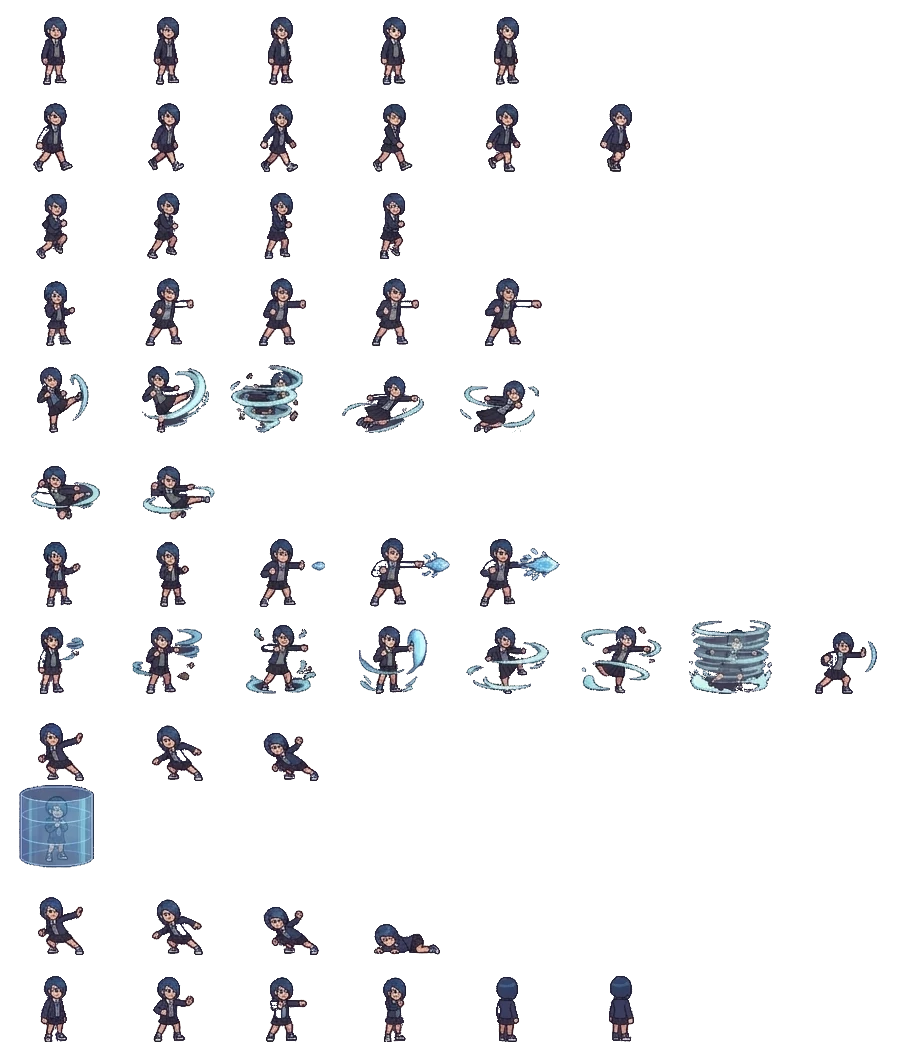
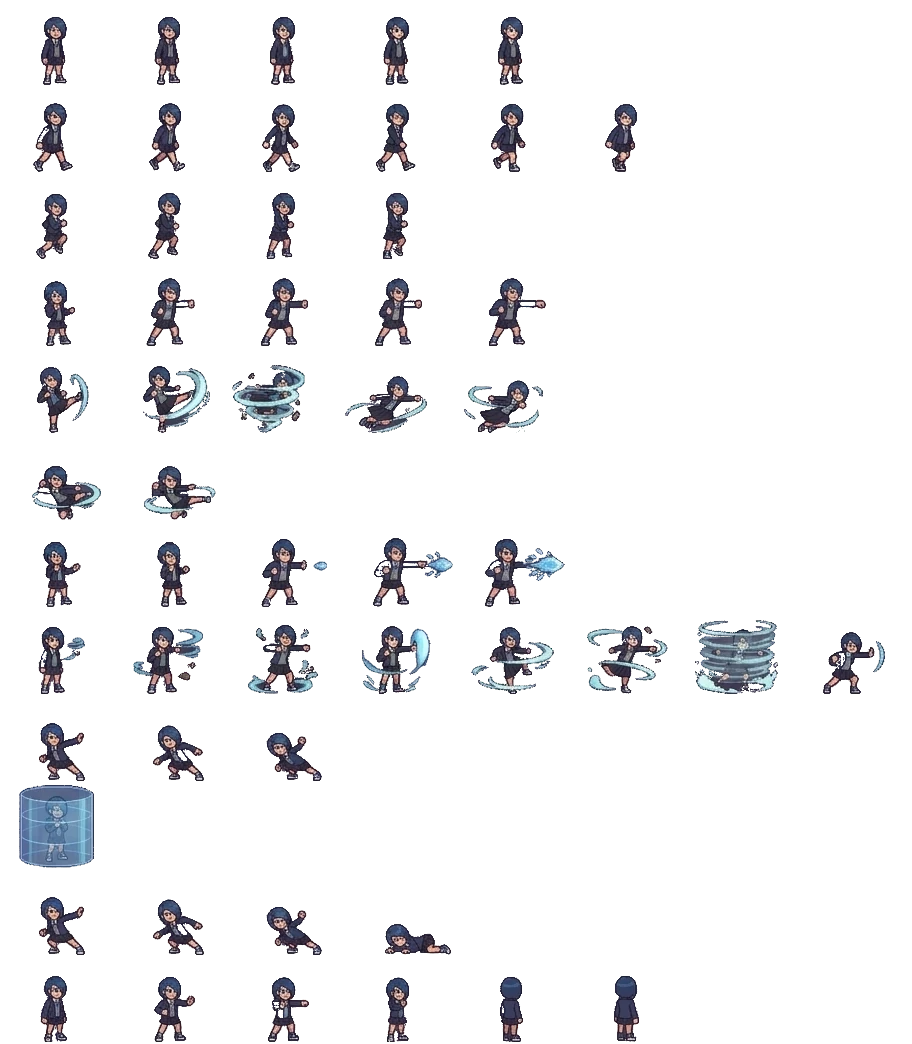
격투 그림을 AI 이미지로 넣는 길 정리: 시트·배경 가져오기, 발판 가이드, 프롬프트 문서
- import-fight-sheet.py: 표준 12줄 배치 자동 인식, 몸 키로 크기 자동 계산, --wm/--split
- import-fight-bg.py: 배경 그림을 16:9 1920×1080 webp로
- fight-map-guides.py: AI 배경용 발판 배치 가이드 그림
- docs/fight-art-guide.md: 캐릭터 시트·배경 프롬프트와 넣는 방법
- 옥상 2P 시작 자리를 물탱크 밖으로

diff --git a/src/lib/fight/maps.ts b/src/lib/fight/maps.ts
@@ -75,7 +75,7 @@ export const MAPS: MapDef[] = [
       { x0: 240, x1: 420, y: 420, kind: "sign" },
       { x0: 732, x1: 912, y: 430, kind: "sign" },
     ],
-    spawn: [320, 832],
+    spawn: [320, 760],
     respawn: [200, 576, 950],
   },
   {

diff --git a/scripts/import-fight-sheet.py b/scripts/import-fight-sheet.py
@@ -3,7 +3,12 @@
 AI로 뽑은 격투 스프라이트 시트(단색 배경, 줄마다 동작 여러 개 섞여 있는 그림)를
 게임 시트 형식(public/fight/<id>.webp + .json)으로 바꿔 준다.
 
-  python3 scripts/import-fight-sheet.py <원본.png> <캐릭터id>
+  python3 scripts/import-fight-sheet.py <원본.png> <캐릭터id> [--wm x0,y0,x1,y1] [--split y]
+
+  - 캐릭터id 가 PRESETS 에 있으면 그 배치(줄·프레임 골라 쓰기)를 씀 (예: mio — 예시 시트)
+  - 없으면 표준 배치: 12줄 = STD_ORDER 순서 동작 한 줄씩, 줄 안의 프레임 전부
+    (docs/fight-art-guide.md 의 프롬프트로 뽑은 시트)
+  - 몸 키를 재서 게임 키(BODY_H px)에 맞게 scale 자동 계산
 
 하는 일
   1. 배경색(가장 흔한 색) 키 아웃 → 부드러운 알파, 테두리 배경색 번짐 제거
@@ -22,15 +27,13 @@ import numpy as np
 from PIL import Image
 from scipy import ndimage
 
-# 원본 기준 좌표(px). 오른쪽 아래 별 워터마크.
-WATERMARKS = [(840, 930, 905, 1000)]
-# 붙어서 한 줄로 잡히는 곳을 이 y에서 자름
-SPLITS = [638]
 # 이 거리 이하로 떨어진 조각은 같은 프레임으로 합침 (물방울 등)
 MERGE_GAP = 10
+# 게임 속 몸 키(px) — 피격 박스 높이와 맞춤
+BODY_H = 62
 
-# 동작 이름 → [(원본 줄, 프레임 번호), ...]  (0부터, 왼쪽→오른쪽)
-ANIMS = {
+# 예시 시트(미오) 배치: 동작 이름 → [(원본 줄, 프레임 번호), ...]  (0부터, 왼쪽→오른쪽)
+MIO_ANIMS = {
     "idle": dict(src=[(0, i) for i in range(5)], fps=6, loop=True),
     "walk": dict(src=[(0, 5), (0, 6), (0, 7), (1, 5), (1, 6), (1, 7)], fps=10, loop=True),
     "jump": dict(src=[(2, 0), (2, 1), (2, 2), (2, 3)], fps=8, loop=False),
@@ -44,13 +47,35 @@ ANIMS = {
     "down": dict(src=[(10, i) for i in range(2, 6)], fps=12, loop=False),
     "win": dict(src=[(11, i) for i in range(6)], fps=5, loop=True),
 }
-MOVES = {
+MIO_MOVES = {
     "L": dict(anim="light", **{"from": 0}, impact=2, to=4),
     "H": dict(anim="heavy", **{"from": 0}, impact=2, to=4),
     "J": dict(anim="air", **{"from": 0}, impact=1, to=1),
     "S": dict(anim="cast", **{"from": 0}, impact=3, to=4),
     "X": dict(anim="super", **{"from": 0}, impact=6, to=7),
 }
+PRESETS = {
+    # Gemini 워터마크(별) 오른쪽 아래, 오브 때문에 붙은 7·8줄을 y638에서 자름
+    "mio": dict(wm=[(840, 930, 905, 1000)], splits=[638], anims=MIO_ANIMS, moves=MIO_MOVES),
+}
+
+# 표준 배치: 줄 순서 = 동작 (fps, 반복)
+STD_ORDER = [
+    ("idle", 6, True),
+    ("walk", 10, True),
+    ("jump", 8, False),
+    ("light", 18, False),
+    ("heavy", 14, False),
+    ("air", 12, False),
+    ("cast", 12, False),
+    ("super", 12, False),
+    ("hit", 12, False),
+    ("block", 1, False),
+    ("down", 12, False),
+    ("win", 6, True),
+]
+# 기술 → 동작, 맞는 순간은 그 줄 프레임 수의 이 비율 지점
+STD_MOVES = {"L": ("light", 0.5), "H": ("heavy", 0.5), "J": ("air", 0.5), "S": ("cast", 0.6), "X": ("super", 0.6)}
 STATES = {
     "idle": {"anim": "idle"},
     "walk": {"anim": "walk"},
@@ -61,8 +86,6 @@ STATES = {
     "ko": {"anim": "down"},
     "win": {"anim": "win"},
 }
-# 원본 몸 키(px) ÷ 게임 몸 키(px)
-SCALE = 1.12
 
 
 def bands(a, gap):
@@ -80,7 +103,7 @@ def bands(a, gap):
     return out
 
 
-def main(src: str, cid: str):
+def main(src: str, cid: str, wm: list, splits: list):
     rgba = Image.open(src).convert("RGB")
     im = np.asarray(rgba).astype(np.float32)
     H, W, _ = im.shape
@@ -104,7 +127,11 @@ def main(src: str, cid: str):
     alpha = np.where(hard, 0.0, 1.0)
     rim = hard & ndimage.binary_dilation(~hard)
     alpha[rim] = np.clip((dist[rim] - 10) / 30, 0, 0.8)
-    for x0, y0, x1, y1 in WATERMARKS:
+    preset = PRESETS.get(cid)
+    if preset:
+        wm = wm or preset["wm"]
+        splits = splits or preset["splits"]
+    for x0, y0, x1, y1 in wm:
         alpha[y0:y1, x0:x1] = 0
     a3 = np.maximum(alpha, 1e-3)[..., None]
     rgb = np.clip((im - (1 - a3) * bg) / a3, 0, 255)
@@ -116,7 +143,7 @@ def main(src: str, cid: str):
     body = mask & ~fx
 
     rows = bands(mask.any(1), 3)
-    for sy in SPLITS:
+    for sy in splits:
         for i, (a, z) in enumerate(rows):
             if a < sy < z:
                 rows[i:i + 1] = [[a, sy - 1], [sy, z]]
@@ -140,6 +167,20 @@ def main(src: str, cid: str):
         frames.append(fr)
         print(f"줄 {len(frames) - 1}: y{a}-{z} 프레임 {len(fr)}")
 
+    if preset:
+        anims, moves = preset["anims"], preset["moves"]
+    else:
+        if len(frames) != len(STD_ORDER):
+            sys.exit(f"줄이 {len(frames)}개 — 표준 배치는 {len(STD_ORDER)}줄이어야 함 (--split 로 붙은 줄을 자르거나 PRESETS 추가)")
+        anims = {
+            n: dict(src=[(i, k) for k in range(len(frames[i]))], fps=fps, loop=loop)
+            for i, (n, fps, loop) in enumerate(STD_ORDER)
+        }
+        moves = {}
+        for mid, (an, ratio) in STD_MOVES.items():
+            n = len(anims[an]["src"])
+            moves[mid] = {"anim": an, "from": 0, "impact": min(n - 1, int(n * ratio)), "to": n - 1}
+
     def anchor(box):
         x0, y0, x1, y1 = box
         bm = body[y0:y1 + 1, x0:x1 + 1]
@@ -147,17 +188,19 @@ def main(src: str, cid: str):
         if len(ys) == 0:
             ys, xs = np.where(mask[y0:y1 + 1, x0:x1 + 1])
         top = ys.min()
-        head = xs[ys < top + 18]
         foot = ys.max()
-        return x0 + head.mean(), y0 + foot
+        head = xs[ys < top + max(6, (foot - top) * 0.25)]
+        return x0 + head.mean(), y0 + foot, foot - top
 
     picks = {}
+    heights = [anchor(frames[ri][fi])[2] for ri, fi in anims["idle"]["src"]]
+    scale = round(float(np.median(heights)) / BODY_H, 3)
     left = right = up = down = 0
-    for name, ad in ANIMS.items():
+    for name, ad in anims.items():
         lst = []
         for ri, fi in ad["src"]:
             box = frames[ri][fi]
-            ax, ay = anchor(box)
+            ax, ay, _ = anchor(box)
             left = max(left, ax - box[0])
             right = max(right, box[2] + 1 - ax)
             up = max(up, ay - box[1])
@@ -168,7 +211,7 @@ def main(src: str, cid: str):
     L, R, U, D = (int(np.ceil(v)) + pad for v in (left, right, up, down))
     cw, ch = L + R, U + D
     ncol = max(len(v) for v in picks.values())
-    out = np.zeros((ch * len(ANIMS), cw * ncol, 4), np.uint8)
+    out = np.zeros((ch * len(anims), cw * ncol, 4), np.uint8)
     src_rgba = np.dstack([rgb, alpha * 255]).astype(np.uint8)
     for row, (name, lst) in enumerate(picks.items()):
         for col, (box, ax, ay) in enumerate(lst):
@@ -187,14 +230,14 @@ def main(src: str, cid: str):
         "image": f"/fight/{cid}.webp",
         "cell": [cw, ch],
         "anchor": [L, U],
-        "scale": SCALE,
+        "scale": scale,
         "pixel": True,
         "facing": "right",
         "anims": {
             n: {"row": i, "frames": len(picks[n]), "fps": ad["fps"], "loop": ad["loop"]}
-            for i, (n, ad) in enumerate(ANIMS.items())
+            for i, (n, ad) in enumerate(anims.items())
         },
-        "moves": MOVES,
+        "moves": moves,
         "states": STATES,
     }
     (outdir / f"{cid}.json").write_text(json.dumps(meta, ensure_ascii=False, indent=2) + "\n")
@@ -202,4 +245,17 @@ def main(src: str, cid: str):
 
 
 if __name__ == "__main__":
-    main(sys.argv[1], sys.argv[2])
+    args = sys.argv[1:]
+    wm, splits, pos = [], [], []
+    i = 0
+    while i < len(args):
+        if args[i] == "--wm":
+            wm.append(tuple(int(v) for v in args[i + 1].split(",")))
+            i += 2
+        elif args[i] == "--split":
+            splits.append(int(args[i + 1]))
+            i += 2
+        else:
+            pos.append(args[i])
+            i += 1
+    main(pos[0], pos[1], wm, splits)

diff --git a/scripts/fight-map-guides.py b/scripts/fight-map-guides.py
@@ -1,0 +1,40 @@
+#!/usr/bin/env python3
+"""
+맵 발판 배치 가이드 그림 (AI 배경 그릴 때 참고 이미지로 넣음) → <출력폴더>/<맵id>.png
+
+  npx tsx -e 'import {MAPS} from "./src/lib/fight/maps"; console.log(JSON.stringify(MAPS))' > /tmp/maps.json
+  python3 scripts/fight-map-guides.py /tmp/maps.json <출력폴더>
+"""
+import json
+import sys
+from pathlib import Path
+
+from PIL import Image, ImageDraw
+
+W, H, K = 1152, 648, 1920 / 1152
+maps = json.load(open(sys.argv[1]))
+out = Path(sys.argv[2])
+out.mkdir(parents=True, exist_ok=True)
+for m in maps:
+    im = Image.new("RGB", (1920, 1080), (40, 44, 60))
+    d = ImageDraw.Draw(im)
+    for x in range(0, 1920, 96):
+        d.line([(x, 0), (x, 1080)], fill=(52, 56, 74))
+    for y in range(0, 1080, 96):
+        d.line([(0, y), (1920, y)], fill=(52, 56, 74))
+    for p in m["plats"]:
+        x0, x1, y = p["x0"] * K, p["x1"] * K, (H - p["y"]) * K
+        if p.get("solid"):
+            d.rectangle([x0, y, x1, 1080], fill=(120, 96, 70))
+            d.rectangle([x0, y, x1, y + 10], fill=(230, 210, 150))
+        else:
+            d.rectangle([x0, y, x1, y + 18], fill=(230, 210, 150))
+    # 캐릭터 키 기준 (62px)
+    for sx in m["spawn"]:
+        x = sx * K
+        best = max((p for p in m["plats"] if p["x0"] <= sx <= p["x1"] and p.get("solid")), key=lambda p: p["y"], default=None)
+        if best:
+            y = (H - best["y"]) * K
+            d.rectangle([x - 12, y - 62 * K, x + 12, y], outline=(255, 120, 120), width=3)
+    im.save(out / f"{m['id']}.png")
+    print(out / f"{m['id']}.png")

diff --git a/scripts/import-fight-bg.py b/scripts/import-fight-bg.py
@@ -1,0 +1,30 @@
+#!/usr/bin/env python3
+"""
+AI로 뽑은 맵 배경 그림을 게임용으로 (16:9로 잘라 1920×1080 webp).
+
+  python3 scripts/import-fight-bg.py <그림.png> <맵id>   → public/fight/bg/<맵id>.webp
+
+그 다음 src/lib/fight/maps.ts 의 맵에 bg: "/fight/bg/<맵id>.webp" 를 넣고,
+그림에 발판까지 그려져 있으면 bgPlats: true + 발판 좌표(1152×648 기준)를 그림에 맞춤.
+배치 가이드 그림: scripts/fight-map-guides.py
+"""
+import sys
+from pathlib import Path
+
+from PIL import Image
+
+src, mid = sys.argv[1], sys.argv[2]
+im = Image.open(src).convert("RGB")
+w, h = im.size
+# 가운데 기준 16:9로 자르기
+if w * 9 > h * 16:
+    nw = h * 16 // 9
+    im = im.crop(((w - nw) // 2, 0, (w - nw) // 2 + nw, h))
+elif w * 9 < h * 16:
+    nh = w * 9 // 16
+    im = im.crop((0, (h - nh) // 2, w, (h - nh) // 2 + nh))
+im = im.resize((1920, 1080), Image.LANCZOS)
+out = Path("public/fight/bg")
+out.mkdir(parents=True, exist_ok=True)
+im.save(out / f"{mid}.webp", "WEBP", quality=86, method=6)
+print(out / f"{mid}.webp")

diff --git a/docs/fight-art-guide.md b/docs/fight-art-guide.md
@@ -1,0 +1,98 @@
+# 격투게임 그림 만들기 (AI 이미지 → 게임)
+
+엔진(판정·롤백·발판·AI)은 그대로 두고, 그림만 AI 이미지로 뽑아서 넣는다.
+코드로 그린 캐릭터(하루·렌)와 배경은 그림이 들어오면 바로 교체.
+
+## 캐릭터 시트
+
+### 규칙 (이걸 지켜야 자동으로 잘림)
+- 단색 배경 한 가지 색 (그라데이션·격자·글자 없음)
+- 모든 프레임 **오른쪽을 봄**
+- **딱 12줄**, 한 줄 = 동작 하나, 왼쪽→오른쪽 순서
+- 프레임끼리, 줄끼리 서로 안 닿게 (이펙트도 다음 줄에 안 닿게)
+- 캐릭터 크기 모든 프레임 같게 (키 100~150px 정도면 충분)
+- 워터마크(별)는 오른쪽 아래 — 캐릭터랑 안 겹치면 자동으로 지움 (`--wm`)
+
+| 줄 | 동작 | 프레임 |
+|---|---|---|
+| 1 | 서 있기 (숨쉬기) | 4~6 |
+| 2 | 걷기 | 6~8 |
+| 3 | 점프 (웅크림·상승·꼭대기·낙하) | 4 |
+| 4 | 약공격 (주먹/짧은 베기) | 4~5 |
+| 5 | 강공격 (무기 크게 휘두르기) | 5~6 |
+| 6 | 공중 공격 | 2~3 |
+| 7 | 필살기 — 능력 탄 쏘는 동작 (탄은 손앞에 작게) | 5 |
+| 8 | 초필살기 (큰 이펙트) | 6~8 |
+| 9 | 맞음 | 3 |
+| 10 | 가드 | 1 |
+| 11 | 다운 (쓰러져서 바닥에 누움) | 4~6 |
+| 12 | 승리 포즈 | 4~6 |
+
+### 프롬프트 (영어가 잘 먹힘, [ ] 부분만 바꾸기)
+
+```
+Pixel art sprite sheet for a 2D platform fighting game, high quality anime style,
+original character: [CHARACTER].
+Flat solid background color #46415A, no gradient, no grid, no text, no labels.
+The character faces RIGHT in every frame. Same character size in every frame.
+Exactly 12 horizontal rows, one animation per row, frames evenly spaced left to right,
+at least 24px empty gap between frames and between rows, nothing overlaps.
+Row 1: idle breathing (5 frames)
+Row 2: walk cycle (6 frames)
+Row 3: jump - crouch, rise, apex, fall (4 frames)
+Row 4: quick light attack (5 frames)
+Row 5: heavy attack swinging [WEAPON] (5 frames)
+Row 6: jumping attack in mid-air (3 frames)
+Row 7: casting [ABILITY] projectile from the hand (5 frames)
+Row 8: super special move with big [ABILITY] effect (8 frames)
+Row 9: getting hit (3 frames)
+Row 10: guard pose (1 frame)
+Row 11: knocked down, falling to lying on the ground (5 frames)
+Row 12: victory pose (5 frames)
+```
+
+### 캐릭터 설정 (학원 능력자 배틀, 오리지널)
+- **하루** — 검도부 · 불꽃
+  `[CHARACTER]` = `high school girl, red long ponytail, navy sailor school uniform with red scarf, kendo club ace, fire ability user, confident`
+  `[WEAPON]` = `a wooden kendo sword (bokken) wreathed in flames` / `[ABILITY]` = `fire`
+- **렌** — 야구부 · 번개
+  `[CHARACTER]` = `high school boy, spiky blond hair, black gakuran school uniform open jacket, baseball club cleanup hitter, lightning ability user, cocky grin`
+  `[WEAPON]` = `a metal baseball bat crackling with electricity` / `[ABILITY]` = `lightning (an electrified baseball)`
+- **미오** — 학생회 · 물과 바람 (예시 시트로 이미 들어가 있음)
+
+### 넣기
+```
+python3 scripts/import-fight-sheet.py 받은그림.png haru
+python3 scripts/import-fight-sheet.py 받은그림.png ren --wm 840,930,905,1000
+```
+→ `public/fight/<id>.webp/.json` 생성. 줄이 12개로 안 잡히면 에러 — 붙은 줄은 `--split y`로 자름.
+배치가 다른 시트는 `PRESETS`에 줄·프레임을 직접 적음 (미오가 그 예).
+
+## 맵 배경
+
+### 규칙
+- 16:9 한 장 (1920×1080 정도)
+- 발판 배치 가이드 그림(`scripts/fight-map-guides.py`로 생성)을 참고 이미지로 같이 넣기
+  - 베이지 막대 = 떠 있는 발판(밑에서 뚫고 올라감), 갈색 덩어리 = 바닥
+  - 빨간 상자 = 캐릭터 키 (크기 감 잡기용, 그리지 말 것)
+
+### 프롬프트
+```
+2D side-view platform fighting game stage background, 16:9, high quality anime
+background art, painterly, detailed, atmospheric lighting.
+Scene: [SCENE].
+Use the attached layout image: beige bars are floating platforms and brown blocks are
+solid ground. Paint them as [PLATFORM OBJECTS] at exactly the same positions and sizes.
+Do not add other platforms. No characters, no text, no UI.
+```
+- **운동장** — `school sports ground at sunset, cherry blossom trees, school building and clock tower` / `metal bleachers and banner trusses`
+- **체육관** — `school gymnasium interior, afternoon light through high windows, red stage curtain` / `wooden stage, steel catwalks, basketball backboards`
+- **옥상** — `school rooftop at night in a futuristic academy city, neon skyline, full moon, a gap between two buildings` / `rooftop floors, water tank, AC unit, neon signboards`
+- **공중 교정** — `pieces of a school campus floating in a bright sky above a sea of clouds after an ability explosion` / `floating rock islands with broken courtyard tiles and grass`
+
+### 넣기
+```
+python3 scripts/import-fight-bg.py 받은그림.png roof
+```
+→ `public/fight/bg/roof.webp`. `src/lib/fight/maps.ts` 해당 맵에 `bg`, `bgPlats: true` 넣고
+발판 좌표를 그림에 맞춰 조금씩 옮김.
